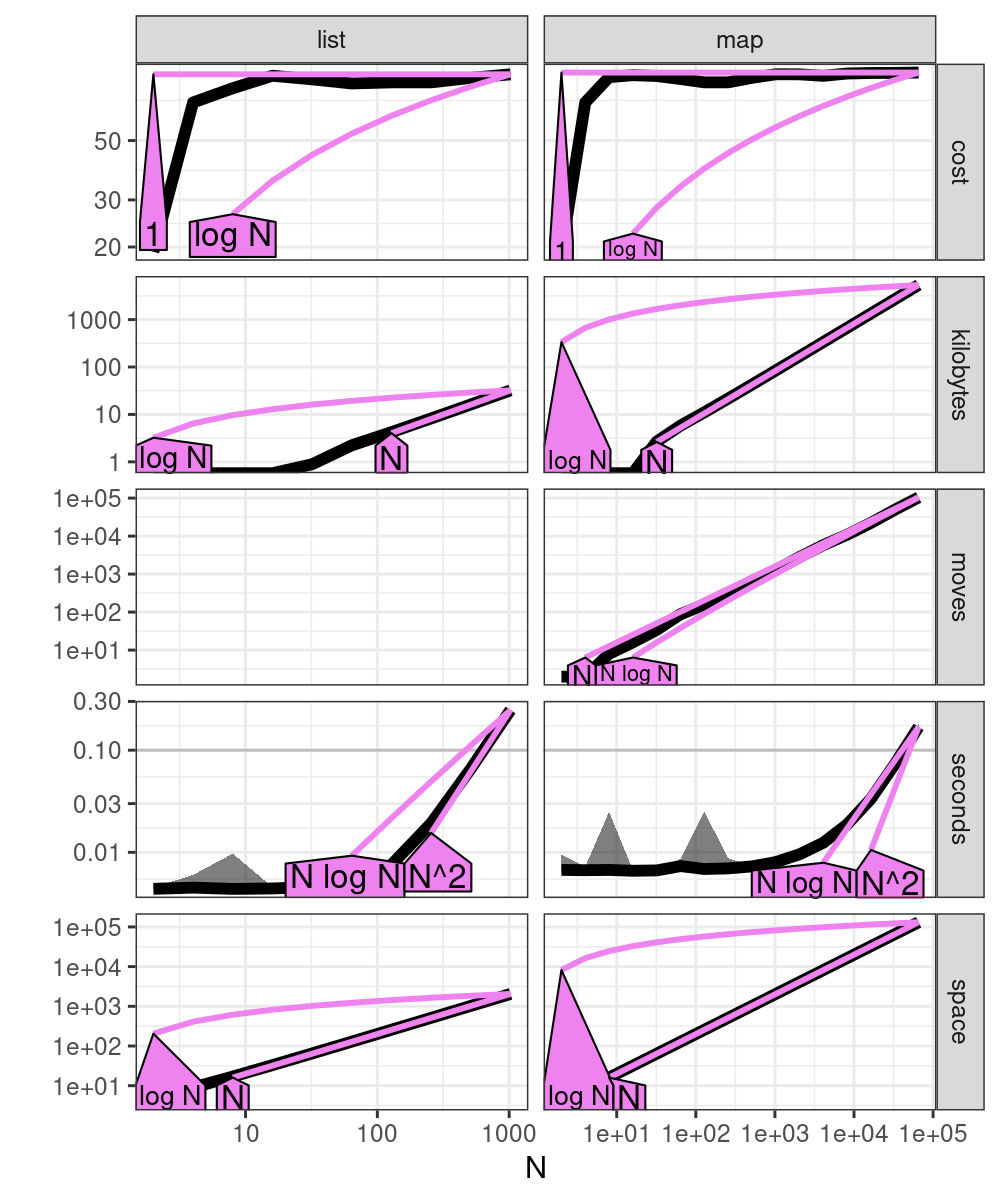
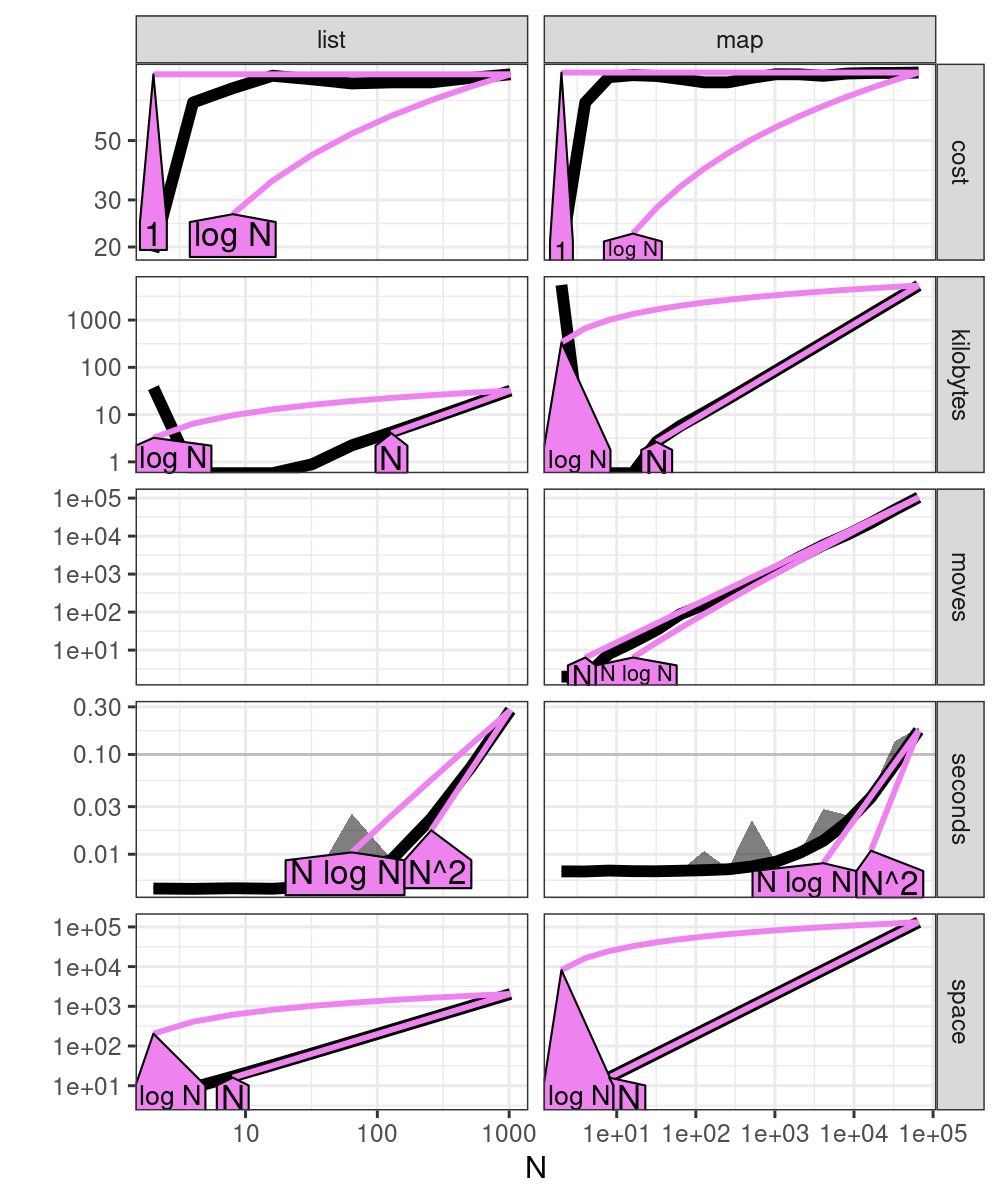
pointer moves figures

diff --git a/README.md b/README.md
@@ -9,16 +9,46 @@
   [timings code](figure-geodesicFPOP-robseg-data.R),
   [figure code](figure-geodesicFPOP-robseg.R).
   
+# 3 Feb 2025
+
+[figure-pfpop-worst-case.R](figure-pfpop-worst-case.R) makes
+
+![screenshot](figure-pfpop-worst-case-typical.png)
+
+The figure above shows what would be probably a "typical" run of the
+FPOP algorithm with infinite penalty, using the map data structure, and a constant number of
+pointer moves per iteration. We see a single minimum between 0 and 90,
+which the constant number of pointer moves is capable of tracking.
+
+![screenshot](figure-pfpop-worst-case.png)
+
+The figure above shows a pathological data set for the FPOP algorithm
+with infinite penalty, using the map data structure, and a constant
+number of pointer moves per iteration. We see that the min/max is not
+correct for iterations 2 and 4, because the constant number of pointer
+moves keeps the pointer in a local min/max, but there is a global
+min/max which would require more pointer moves.
+
 # 31 Jan 2025
 
 [figure-pfpop-atime.R](figure-pfpop-atime.R) makes
 
 ![screenshot](figure-pfpop-atime.png)
 
-This figure shows asymptotic properties of FPOP using an alternative
-data structure (map), versus the classic data structure (list). Both
-have O(N) space but with O(N) total moves, we see that the time
-complexity of map is O(N log N), versus O(N^2) for list.
+The figure above shows asymptotic properties of FPOP using infinite
+penalty and an alternative data structure (map), with O(1) pointer
+moves per iteration, versus the classic data structure (list), with
+O(I) operations per iteration, where I is the number of intervals used
+to represent the cost function. Both have O(N) space but with O(N)
+total moves, we see that the time complexity of map is O(N log N),
+versus O(N^2) for list.
+
+![screenshot](figure-pfpop-atime-compare.png)
+
+The figure above shows that list sometimes has smaller cost values
+than map. This implies that there are some data sets for which a
+constant number of pointer moves is not sufficient to find the global
+minimum.
 
 # 15 Jan 2025
 
